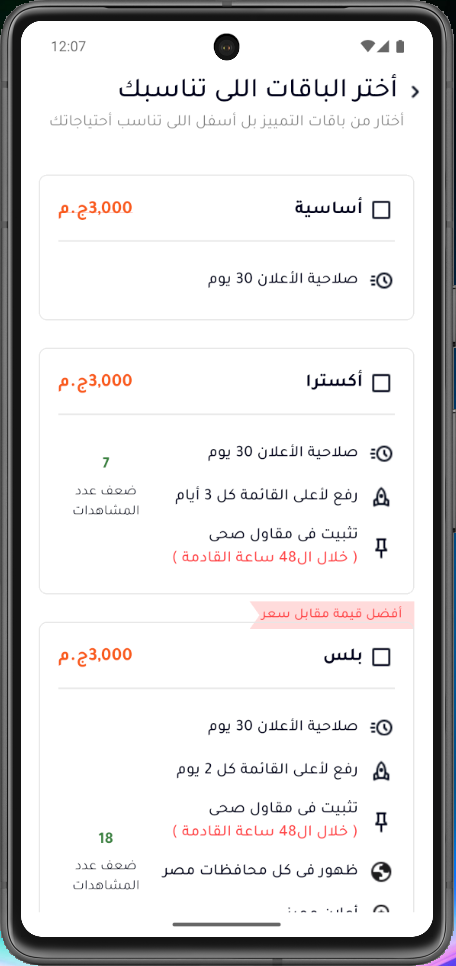
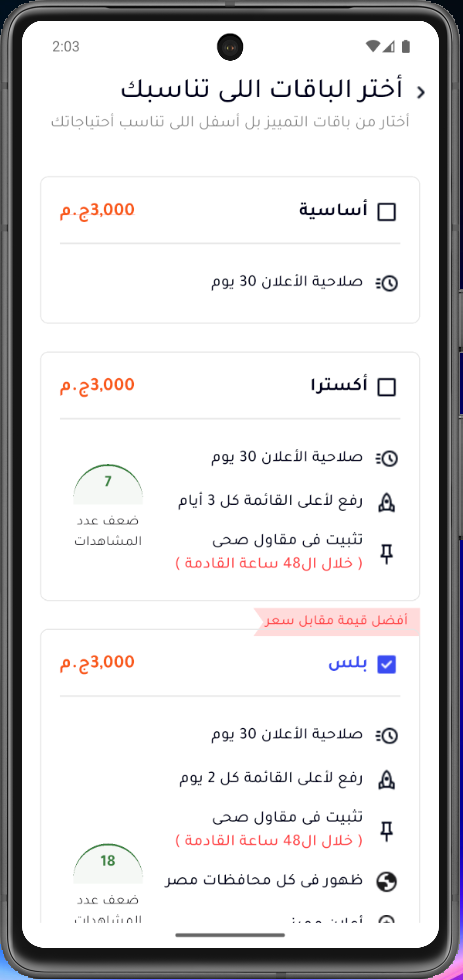
Refactor ViewsBoostCard layout; enhance visual structure with a new Stack widget for number display and update text styles

diff --git a/lib/Features/Profile/Presentation/Views/Widgets/ViewsBoostCard .dart b/lib/Features/Profile/Presentation/Views/Widgets/ViewsBoostCard .dart
@@ -3,7 +3,7 @@ import 'package:flutter_screenutil/flutter_screenutil.dart';
 import 'package:otex_app/Core/utils/Text_Styless.dart';
 
 class ViewsBoostCard extends StatelessWidget {
-  final String number; // الرقم فقط
+  final String number;
 
   const ViewsBoostCard({super.key, required this.number});
 
@@ -13,70 +13,51 @@ class ViewsBoostCard extends StatelessWidget {
       width: 71.w,
       height: 74.h,
       child: Column(
+        mainAxisAlignment: MainAxisAlignment.center,
         children: [
-          Text(
-            number,
-            style: TextStyless.tajawalBold14.copyWith(color: Color(0xff3A813F)),
+          SizedBox(
+            width: 60.w,
+            height: 30.h,
+            child: Stack(
+              alignment: Alignment.center,
+              children: [
+                Positioned(
+                  top: 0,
+                  child: Container(
+                    width: 60.w,
+                    height: 30.h,
+                    decoration: BoxDecoration(
+                      color: Color(0xffF5F8F5),
+                      border: Border(
+                        top: BorderSide(color: Color(0xff3A813F), width: 2),
+                      ),
+                      borderRadius: const BorderRadius.only(
+                        topLeft: Radius.circular(90),
+                        topRight: Radius.circular(90),
+                      ),
+                    ),
+                  ),
+                ),
+                Positioned(
+                  top: 6.h,
+                  child: Text(
+                    number,
+                    style: TextStyless.tajawalBold14.copyWith(
+                      color: Color(0xff3A813F),
+                    ),
+                  ),
+                ),
+              ],
+            ),
           ),
-          SizedBox(height: 4.h),
+          SizedBox(height: 6.h),
           Text(
             'ضعف عدد المشاهدات',
             textAlign: TextAlign.center,
-            style: TextStyless.tajawalRegular12.copyWith(
-              color: Color(0xff090F1F),
-            ),
+            style: TextStyless.tajawalRegular12,
           ),
         ],
       ),
     );
   }
 }
-      // width: 71.w,
-      // height: 74.h,
-
-      // child: Column(
-      //   mainAxisAlignment: MainAxisAlignment.center,
-      //   children: [
-      //     SizedBox(
-      //       width: 60.w,
-      //       height: 30.h,
-      //       child: Stack(
-      //         alignment: Alignment.center,
-      //         children: [
-      //           Positioned(
-      //             top: 0,
-      //             child: Container(
-      //               width: 60.w,
-      //               height: 30.h,
-      //               decoration: BoxDecoration(
-      //                 border: Border(
-      //                   top: BorderSide(color: Color(0xff3A813F), width: 2),
-      //                 ),
-      //                 borderRadius: const BorderRadius.only(
-      //                   topLeft: Radius.circular(32),
-      //                   topRight: Radius.circular(32),
-      //                 ),
-      //               ),
-      //             ),
-      //           ),
-      //           // الرقم
-      //           Positioned(
-      //             top: 6.h,
-      //             child: Text(
-      //               number,
-      //               style: TextStyless.tajawalBold14.copyWith(
-      //                 color: Color(0xff3A813F),
-      //               ),
-      //             ),
-      //           ),
-      //         ],
-      //       ),
-      //     ),
-      //     SizedBox(height: 6.h),
-      //     Text(
-      //       'ضعف عدد المشاهدات',
-      //       textAlign: TextAlign.center,
-      //       style: TextStyless.tajawalRegular12,
-      //     ),
-      //   ],
-      // ),
